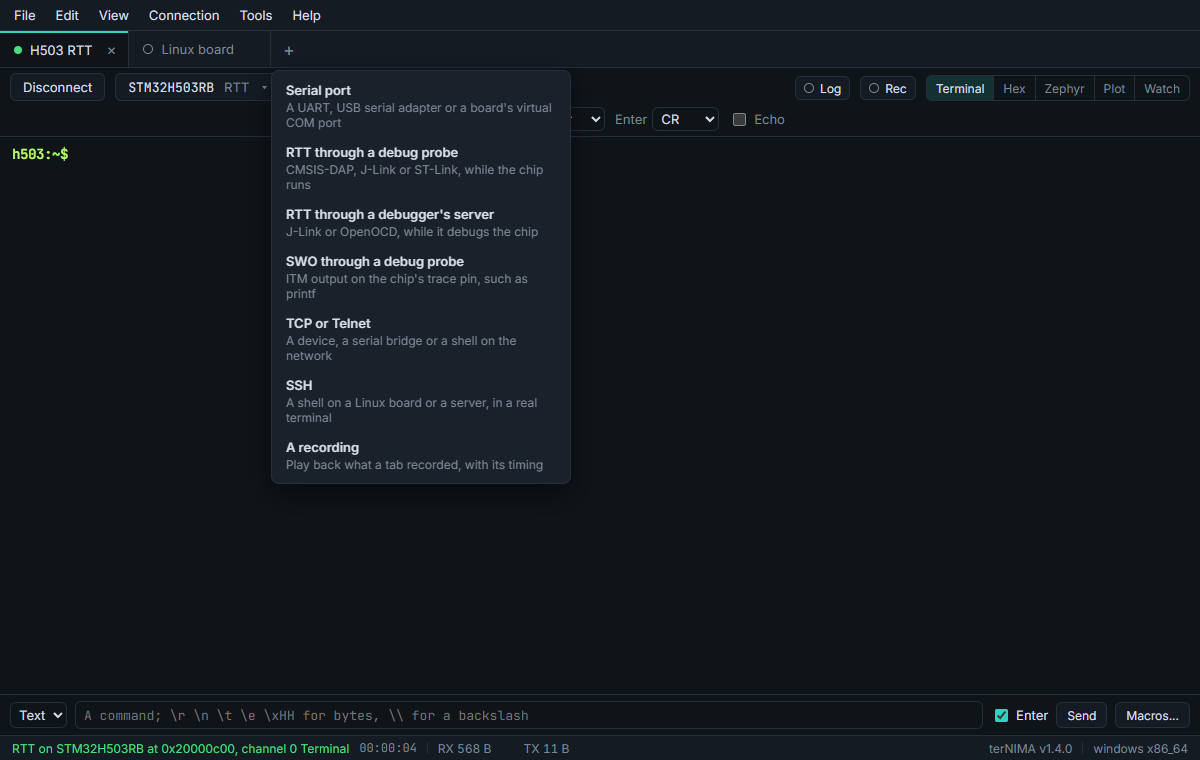
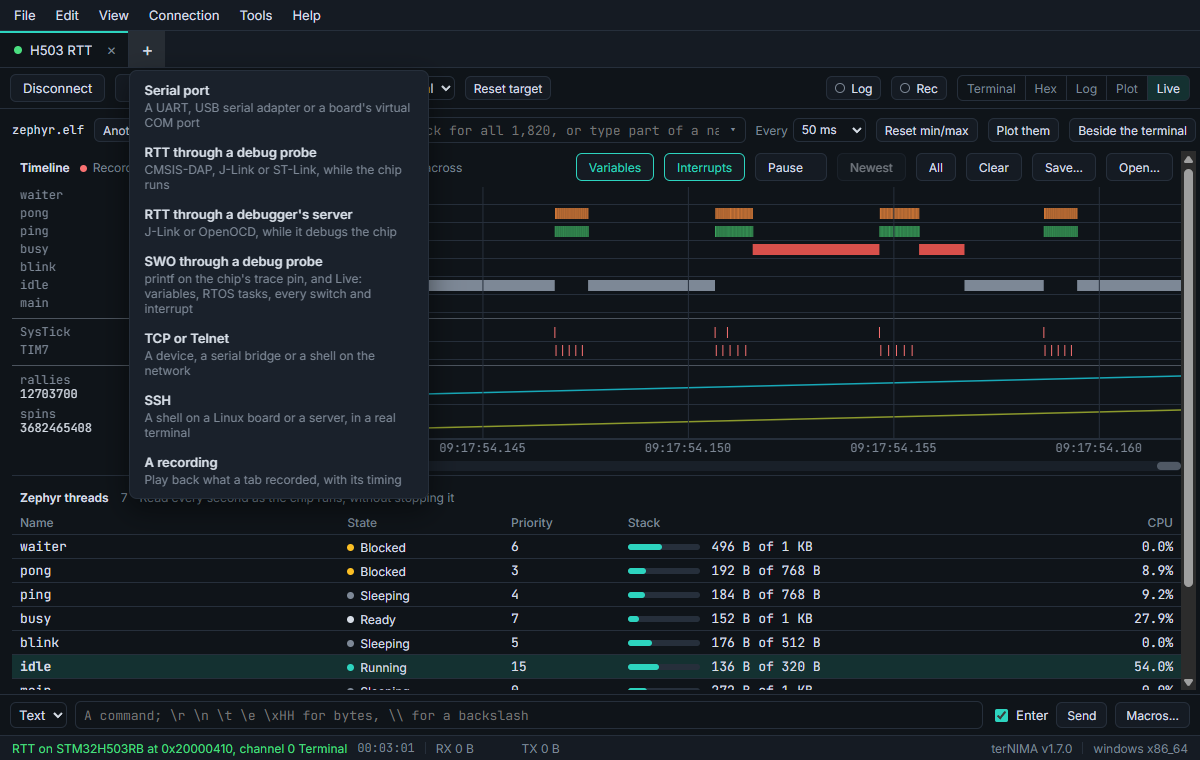
terNIMA 1.7.0: RTOS tasks and the timeline of every switch
The help has a section on the Live view's RTOS tasks and its timeline:
sampled, traced over SWO, or sent by SEGGER SystemView over RTT, with
Zephyr's settings for it, and how to zoom, pause and save it. Detect finds
an SWO tab's clock, and the views are called Live and Log, as in the app.
New pictures of the tasks and the timeline, of switches microseconds
apart, of the + menu, the SWO dialog and the palette. terNIMA's page opens
its pictures on the timeline and lists it, and its card names it.

diff --git a/ternima/help/index.html b/ternima/help/index.html
@@ -3,14 +3,14 @@
 <head>
 <meta charset="utf-8">
 <meta name="viewport" content="width=device-width, initial-scale=1">
-<title>terNIMA help | Serial, RTT, SWO, SSH, crash decoding, Watch, Plot and Modbus, step by step</title>
-<meta name="description" content="How to use terNIMA: serial, RTT through a probe or a debugger&#x27;s server, SWO, TCP, SSH, the terminal, the hex view, Zephyr logs, crash decoding, live variables, the plot, Modbus, logs and recordings, with screenshots.">
+<title>terNIMA help | Serial, RTT, SWO, SSH, crash decoding, Live, RTOS tasks, Plot and Modbus, step by step</title>
+<meta name="description" content="How to use terNIMA: serial, RTT through a probe or a debugger&#x27;s server, SWO, TCP, SSH, the terminal, the hex view, Zephyr logs, crash decoding, live variables, RTOS tasks and the timeline of every task switch, the plot, Modbus, logs and recordings, with screenshots.">
 <meta name="author" content="Nima Askari">
 <link rel="canonical" href="https://nimaltd.github.io/ternima/help/">
 <meta property="og:type" content="website">
 <meta property="og:url" content="https://nimaltd.github.io/ternima/help/">
-<meta property="og:title" content="terNIMA help | Serial, RTT, SWO, Watch, Plot and Modbus, step by step">
-<meta property="og:description" content="How to use terNIMA: serial, RTT through a probe or a debugger&#x27;s server, SWO, TCP, SSH, the terminal, the hex view, Zephyr logs, crash decoding, live variables, the plot, Modbus, logs and recordings, with screenshots.">
+<meta property="og:title" content="terNIMA help | Serial, RTT, SWO, Live, RTOS tasks, Plot and Modbus, step by step">
+<meta property="og:description" content="How to use terNIMA: serial, RTT through a probe or a debugger&#x27;s server, SWO, TCP, SSH, the terminal, the hex view, Zephyr logs, crash decoding, live variables, RTOS tasks and the timeline of every task switch, the plot, Modbus, logs and recordings, with screenshots.">
 <meta property="og:image" content="https://nimaltd.github.io/assets/ternima-logs.png">
 <meta name="twitter:card" content="summary_large_image">
 <meta name="theme-color" content="#071226">
@@ -95,9 +95,10 @@
         <li><a href="#ssh">SSH</a></li>
         <li><a href="#terminal">The terminal</a></li>
         <li><a href="#hex">Hex view</a></li>
-        <li><a href="#zephyr">Zephyr log</a></li>
+        <li><a href="#zephyr">Log view</a></li>
         <li><a href="#crash">Crash decoding</a></li>
-        <li><a href="#watch">Watch: live variables</a></li>
+        <li><a href="#watch">Live: variables</a></li>
+        <li><a href="#rtos">RTOS tasks and the timeline</a></li>
         <li><a href="#plot">Plot</a></li>
         <li><a href="#modbus">Modbus</a></li>
         <li><a href="#log">Log, record and replay</a></li>
@@ -124,7 +125,7 @@
 <li><b>Serial port</b>: a UART, a USB serial adapter, or a board's virtual COM port.</li>
 <li><b>RTT through a debug probe</b>: terNIMA opens a CMSIS-DAP, J-Link or ST-Link probe itself.</li>
 <li><b>RTT through a debugger's server</b>: while your IDE debugs, from J-Link's or OpenOCD's own RTT server.</li>
-<li><b>SWO through a debug probe</b>: ITM output on the chip's trace pin, such as printf.</li>
+<li><b>SWO through a debug probe</b>: printf on the chip's trace pin, and the Live view: variables, RTOS tasks, every task switch and interrupt.</li>
 <li><b>TCP or Telnet</b>: a device on the network, a serial bridge, or a shell.</li>
 <li><b>SSH</b>: a shell on a Linux board or a server, in a real terminal.</li>
 <li><b>A recording</b>: plays back what a tab recorded, with its timing.</li>
@@ -149,10 +150,10 @@
 <ol>
 <li><b>Pick the probe.</b> One already open in another tab says so.</li>
 <li><b>The chip</b>, as probe-rs names it: type part of its name and pick it from the list, or press <b>Detect</b>.</li>
-<li><b>The firmware's ELF file</b>, if you have it: terNIMA finds the control block at once from its <code>_SEGGER_RTT</code> symbol, and the Watch view finds the variables in it. Without it, RAM is searched.</li>
+<li><b>The firmware's ELF file</b>, if you have it: terNIMA finds the control block at once from its <code>_SEGGER_RTT</code> symbol, and the Live view finds the variables and the RTOS's tasks in it. Without it, RAM is searched.</li>
 <li><b>Connect.</b></li>
 </ol>
-<p>The <b>up channel</b> is the one shown, the <b>down channel</b> the one typed into; channel 0 is the terminal. <b>Control block address</b> skips the search. <b>Connect under reset</b> is for firmware that sleeps or turns the debug pins off. With <b>Read RTT</b> off, the tab reads only the variables in the Watch view, for firmware without RTT. <b>Reset target</b> in the toolbar resets the chip, and RTT is found again.</p>
+<p>The <b>up channel</b> is the one shown, the <b>down channel</b> the one typed into; channel 0 is the terminal. <b>Control block address</b> skips the search. <b>Connect under reset</b> is for firmware that sleeps or turns the debug pins off. With <b>Read RTT</b> off, the tab reads only the variables and the tasks in the Live view, for firmware without RTT. <b>Reset target</b> in the toolbar resets the chip, and RTT is found again. With SEGGER SystemView in the firmware, the Live view's timeline has every task switch and interrupt: see <a href="#rtos">RTOS tasks and the timeline</a>.</p>
 <figure><img src="/assets/help/ternima-terminal.png" width="1200" height="760" loading="lazy" decoding="async" alt="An RTT tab on an STM32H503RB: the firmware&#x27;s shell, with help, uptime and colors typed into it, the colors shown, and its variables beside the terminal"><figcaption>The firmware's shell over RTT, its variables beside it</figcaption></figure>
 
 <div class="note"><p>A probe has one owner: while your IDE debugs through it, terNIMA cannot open it. Read RTT through the debugger's own server then, as below.</p></div>
@@ -171,16 +172,16 @@
 <span class="p">&gt;</span> rtt server start 9090 0</pre></div>
 
 <p>Then pick <b>OpenOCD's RTT server</b>, <code>localhost</code> and 9090.</p>
-<figure><img src="/assets/help/ternima-server-dialog.png" width="1200" height="760" loading="lazy" decoding="async" alt="The New TCP session dialog set for OpenOCD&#x27;s RTT server: localhost, port 9090, the Tcl port 6666 for Watch, and a line on the OpenOCD commands that start the server"><figcaption>OpenOCD's RTT server, and its Tcl port for Watch</figcaption></figure>
+<figure><img src="/assets/help/ternima-server-dialog.png" width="1200" height="760" loading="lazy" decoding="async" alt="The New TCP session dialog set for OpenOCD&#x27;s RTT server: localhost, port 9090, the Tcl port 6666 for Watch, and a line on the OpenOCD commands that start the server"><figcaption>OpenOCD's RTT server, and its Tcl port for the Live view</figcaption></figure>
 
-<p>With OpenOCD, the Watch view reads the variables through OpenOCD's <b>Tcl port</b>, 6666 unless OpenOCD is told otherwise. The chip runs on, and the debugger keeps working. J-Link's server gives no way to read them.</p>
+<p>With OpenOCD, the Live view reads the variables through OpenOCD's <b>Tcl port</b>, 6666 unless OpenOCD is told otherwise. The chip runs on, and the debugger keeps working. J-Link's server gives no way to read them.</p>
       </section>
       <section id="swo">
         <h2>SWO through a debug probe</h2>
 
-<figure><img src="/assets/help/ternima-swo-dialog.png" width="1200" height="760" loading="lazy" decoding="async" alt="The New SWO session dialog: the probe, the chip, the core clock in Hz, the SWO baud rate, the ITM stimulus port with 0 for printf, and the All ports box"><figcaption>SWO: the core clock, the baud rate, the ITM port</figcaption></figure>
+<figure><img src="/assets/help/ternima-swo-dialog.png" width="1200" height="760" loading="lazy" decoding="async" alt="The New SWO session dialog: the STLink V3 probe picked, the chip STM32H503RB, the firmware&#x27;s ELF file, the core clock 240000000 and the SWO baud rate 24000000 found by Detect, the ITM stimulus port 0 for printf, and the line saying the clock is the firmware&#x27;s SystemCoreClock, checked on the core"><figcaption>Detect finds the core clock, and the fastest baud rate for it</figcaption></figure>
 
-<p>SWO is the chip's trace pin: what the firmware writes to the ITM, such as printf. Give the chip's <b>core clock</b> in Hz and the <b>SWO baud rate</b>, which must divide it exactly, and the ITM <b>stimulus port</b> shown (0 is printf), or <b>All ports</b>. The trace pin, often PB3 on STM32, must be wired to the probe; on STM32H5 terNIMA turns it on itself. SWO tabs have the Watch view too, read through the same probe.</p>
+<p>SWO is the chip's trace pin: what the firmware writes to the ITM, such as printf. Give the chip's <b>core clock</b> in Hz and the <b>SWO baud rate</b>, which must divide it exactly, and the ITM <b>stimulus port</b> shown (0 is printf), or <b>All ports</b>. <b>Detect</b> beside the clock finds both: it reads the firmware's own <code>SystemCoreClock</code> when the ELF file is given, checked against the core's cycle counter, or else counts the cycles alone, and takes the fastest baud rate the probe takes that divides the clock, 24 MHz on an ST-Link V3. The trace pin, often PB3 on STM32, must be wired to the probe; on STM32H5 terNIMA turns it on itself. SWO tabs have the Live view too, read through the same probe, and their timeline has every task switch and interrupt, timed by the chip: see <a href="#rtos">RTOS tasks and the timeline</a>.</p>
       </section>
       <section id="tcp">
         <h2>TCP or Telnet</h2>
@@ -234,11 +235,11 @@
 <p>View &gt; Hex (<kbd>Ctrl+Shift+H</kbd>) shows every byte sent (TX) and received (RX), with offsets and the bytes as characters. A line holds 8, 16 or 32 bytes, and a new one starts when the direction changes or after a chosen byte such as <code>0A</code>. The terminal keeps everything while the hex view is shown.</p>
       </section>
       <section id="zephyr">
-        <h2>Zephyr log</h2>
+        <h2>Log view</h2>
 
-<figure><img src="/assets/ternima-logs.png" width="1200" height="760" loading="lazy" decoding="async" alt="The Zephyr log view: log lines with their time, level and module, the warnings and errors highlighted, and a count of each level above them"><figcaption>Zephyr logs, by level and module</figcaption></figure>
+<figure><img src="/assets/ternima-logs.png" width="1200" height="760" loading="lazy" decoding="async" alt="The Log view: Zephyr&#x27;s log lines with their time, level and module, the warnings and errors highlighted, and a count of each level above them"><figcaption>Zephyr logs, by level and module</figcaption></figure>
 
-<p>View &gt; Zephyr log (<kbd>Ctrl+Shift+J</kbd>) lists every received line, with Zephyr's log lines read into time, level and module. The level chips and the module list show or hide lines, the search marks matches or keeps only them, Tools &gt; Highlight rules colors the lines that match, and bookmarks (<kbd>Ctrl+F2</kbd>, then <kbd>F2</kbd> and <kbd>Shift+F2</kbd>) mark lines to come back to.</p>
+<p>View &gt; Log (<kbd>Ctrl+Shift+J</kbd>) lists every received line, with Zephyr's log lines read into time, level and module. The level chips and the module list show or hide lines, the search marks matches or keeps only them, Tools &gt; Highlight rules colors the lines that match, and bookmarks (<kbd>Ctrl+F2</kbd>, then <kbd>F2</kbd> and <kbd>Shift+F2</kbd>) mark lines to come back to.</p>
 <p>A row over the list names the columns: Time, Level, Module and Message. Drag the edge between two names to make the column on its left wider or narrower, so a long module name shows in full; a double-click on the edge makes the column just wide enough for its longest text. Each tab keeps its widths. A module's name has the color of its line's level. <b>Clear</b> and <b>Scroll lock</b> are in the toolbar, as for the terminal: Clear (<kbd>Ctrl+Shift+K</kbd>) forgets the lines, which the plot reads too, and Scroll lock keeps the list still while lines keep coming.</p>
       </section>
       <section id="crash">
@@ -249,38 +250,82 @@
 
 <p>It reads any line with an address written as <code>0x08001234</code>, as in a Zephyr fatal error, a HardFault handler's print or an ESP32 backtrace. On a line that speaks of the PC, the LR, a fault or a backtrace, <code>08001234</code> without the <code>0x</code> counts too. Only addresses inside the ELF file's functions count, so RAM addresses and other numbers stay as they are. A return address, as in the LR, gives the line of the call.</p>
 <ul>
-<li><b>Where the ELF file goes:</b> in the settings of a serial, RTT or SWO tab; for a TCP tab, in its Watch view. It needs no probe, and works on a plain serial port.</li>
+<li><b>Where the ELF file goes:</b> in the settings of a serial, RTT or SWO tab; for a TCP tab, in its Live view. It needs no probe, and works on a plain serial port.</li>
 <li><b>Debug information:</b> a firmware built with it, as with <code>-g</code>, gives the file and the line. Without it you get the function, from the symbol table. A stripped file has neither, and the tab says so.</li>
 <li><b>The right file:</b> it must be the firmware that runs, or the addresses point somewhere else. A file built again is read again by itself.</li>
-<li><b>The Zephyr view</b> shows them at the end of the line. The hex view and log files keep only what the device sent.</li>
+<li><b>The Log view</b> shows them at the end of the line. The hex view and log files keep only what the device sent.</li>
 <li><b>Settings &gt; Crashes</b> turns it off.</li>
 </ul>
-<figure><img src="/assets/help/ternima-crash-lines.png" width="1200" height="760" loading="lazy" decoding="async" alt="The Zephyr view of the same crash: the function, file and line at the end of the lines with the LR and the PC"><figcaption>The same crash in the Zephyr view</figcaption></figure>
+<figure><img src="/assets/help/ternima-crash-lines.png" width="1200" height="760" loading="lazy" decoding="async" alt="The Log view of the same crash: the function, file and line at the end of the lines with the LR and the PC"><figcaption>The same crash in the Log view</figcaption></figure>
       </section>
       <section id="watch">
-        <h2>Watch: live variables</h2>
+        <h2>Live: variables</h2>
 
-<p>Watch reads the firmware's variables as the chip runs, without stopping it: globals and statics, a struct's members as <code>sensor.temp</code>, an array's elements as <code>buf[2]</code>, found by name in the ELF file's debug information. Build the firmware with debug information (<code>-g</code>).</p>
+<p>The Live view reads the firmware's variables as the chip runs, without stopping it: globals and statics, a struct's members as <code>sensor.temp</code>, an array's elements as <code>buf[2]</code>, found by name in the ELF file's debug information. Build the firmware with debug information (<code>-g</code>).</p>
 <ol>
-<li><b>Choose the ELF file</b> in the Watch view, or in the tab's settings.</li>
+<li><b>Choose the ELF file</b> in the Live view, or in the tab's settings.</li>
 <li><b>Click the box</b> for all the variables in the file, or type part of a name. <kbd>↑</kbd>, <kbd>↓</kbd> and <kbd>Enter</kbd> add one.</li>
 <li><b>Every</b> sets how often they are read, 10 ms to 1 s.</li>
 </ol>
-<figure><img src="/assets/help/ternima-watch-list.png" width="1200" height="760" loading="lazy" decoding="async" alt="The Watch view with its box clicked: the list of the ELF file&#x27;s variables, each with its type and address, over the table of the variables watched"><figcaption>A click on the box lists the ELF file's variables</figcaption></figure>
+<figure><img src="/assets/help/ternima-watch-list.png" width="1200" height="760" loading="lazy" decoding="async" alt="The Live view with its box clicked: the list of the ELF file&#x27;s variables, each with its type and address, over the table of the variables watched"><figcaption>A click on the box lists the ELF file's variables</figcaption></figure>
 
-<figure><img src="/assets/help/ternima-watch.png" width="1200" height="760" loading="lazy" decoding="async" alt="The Watch view: four variables of an STM32H503RB, a temperature, a sine, a sample count and the uptime, each with its type, address, value, min and max"><figcaption>Each variable's value, min and max, as the chip runs</figcaption></figure>
+<figure><img src="/assets/help/ternima-watch.png" width="1200" height="760" loading="lazy" decoding="async" alt="The Live view: four variables of an STM32H503RB, a temperature, a sine, a sample count and the uptime, each with its type, address, value, min and max"><figcaption>Each variable's value, min and max, as the chip runs</figcaption></figure>
 
-<p>The table has each variable's value, min and max; <b>Reset min/max</b> starts them again. <b>Plot them</b> draws them over time, and <b>Beside the terminal</b> shows them at the right of the terminal, the hex view and the Zephyr log, so what the firmware prints and its variables are in view together:</p>
+<p>The table has each variable's value, min and max; <b>Reset min/max</b> starts them again. <b>Plot them</b> draws them over time, and <b>Beside the terminal</b> shows them at the right of the terminal, the hex view and the Log view, so what the firmware prints and its variables are in view together:</p>
 <figure><img src="/assets/ternima-watch.png" width="1200" height="760" loading="lazy" decoding="async" alt="The firmware&#x27;s RTT shell at the left, and its variables at the right of it, read live"><figcaption>Watch beside the terminal</figcaption></figure>
 
-<p>Watch works on <b>RTT tabs</b>, with Read RTT off for firmware without RTT; on <b>SWO tabs</b>; and on <b>RTT through OpenOCD's server</b> while you debug. Statics of one name in two source files are named as GDB names them, <code>'uart.c'::state</code>. After the firmware is built anew, <b>Reload</b> reads the ELF file again.</p>
+<p>The Live view works on <b>RTT tabs</b>, with Read RTT off for firmware without RTT; on <b>SWO tabs</b>; and on <b>RTT through OpenOCD's server</b> while you debug. Statics of one name in two source files are named as GDB names them, <code>'uart.c'::state</code>. After the firmware is built anew, <b>Reload</b> reads the ELF file again.</p>
+<p>Over the variables, the Live view shows the RTOS's tasks and the timeline of which ran when: see <a href="#rtos">RTOS tasks and the timeline</a>.</p>
+      </section>
+      <section id="rtos">
+        <h2>RTOS tasks and the timeline</h2>
+
+<p>With the firmware's ELF file, the Live view shows its RTOS's tasks over the variables: Zephyr's threads or FreeRTOS's tasks, each with what it is doing, its priority, the most of its stack it has used and its share of the CPU, the running one picked out. FreeRTOS's heap shows too. They are read every second through the kernel's own lists as the chip runs, laid out as the ELF file's debug information says, so the firmware needs no RTT and nothing added. What it leaves out that would show more is named under the table, as <code>CONFIG_THREAD_NAME=y</code>.</p>
+<figure><img src="/assets/ternima-rtos.png" width="1200" height="760" loading="lazy" decoding="async" alt="The Live view of an RTT tab on an STM32H503RB running Zephyr with SystemView: the timeline, 24.6 ms across, with a lane for each thread, waiter, pong, ping, busy, blink, idle and main, the SysTick and TIM7 interrupts under them and the variables rallies and spins over the same time; under it, the Zephyr threads with each one&#x27;s state, priority, stack and share of the CPU"><figcaption>Zephyr's threads, and every switch over them</figcaption></figure>
+
+<p>The <b>timeline</b> over them has a lane for each task, showing when it ran, a lane for each interrupt, named as the firmware names it, TIM7 rather than IRQ 50, and the watched variables over the same time. It records from when the Live view is first shown, in every view after that. Which task ran, it learns one of three ways:</p>
+<ul>
+<li><b>Sampled</b>, in any tab with a probe: the running task is read as fast as the probe answers, about 2,700 times a second with an ST-Link V3. A task that runs for less than that may go unseen.</li>
+<li><b>Traced over SWO</b>, in an SWO tab: the chip sends each task switch and each interrupt itself, timed to the clock cycle, and nothing in the firmware changes. It needs a Cortex-M3, M4, M7 or M33 with its trace pin wired to the probe.</li>
+<li><b>From SEGGER SystemView</b>, in an RTT tab: firmware built with SystemView sends each task switch and each interrupt over RTT, timed by its own clock, with no trace pin. For Zephyr, in <code>prj.conf</code>:</li>
+</ul>
+<div class="cmd"><button class="copy" type="button" data-copy="CONFIG_TRACING=y&#10;CONFIG_SEGGER_SYSTEMVIEW=y&#10;CONFIG_SEGGER_SYSVIEW_RTT_CHANNEL=1&#10;CONFIG_SEGGER_SYSVIEW_RTT_BUFFER_SIZE=16384&#10;CONFIG_TRACING_SYSCALL=n&#10;CONFIG_TRACING_WORK=n&#10;CONFIG_TRACING_SEMAPHORE=n&#10;CONFIG_TRACING_MUTEX=n&#10;CONFIG_TRACING_CONDVAR=n&#10;CONFIG_TRACING_QUEUE=n&#10;CONFIG_TRACING_FIFO=n&#10;CONFIG_TRACING_LIFO=n&#10;CONFIG_TRACING_STACK=n&#10;CONFIG_TRACING_MESSAGE_QUEUE=n&#10;CONFIG_TRACING_MAILBOX=n&#10;CONFIG_TRACING_PIPE=n&#10;CONFIG_TRACING_HEAP=n&#10;CONFIG_TRACING_MEMORY_SLAB=n&#10;CONFIG_TRACING_TIMER=n&#10;CONFIG_TRACING_EVENT=n&#10;CONFIG_TRACING_POLLING=n&#10;CONFIG_TRACING_PM=n" aria-label="Copy the settings"><svg class="ico"><use href="/assets/icons.svg?v=3#i-copy"/></svg></button>
+<pre>CONFIG_TRACING=y
+CONFIG_SEGGER_SYSTEMVIEW=y
+CONFIG_SEGGER_SYSVIEW_RTT_CHANNEL=1
+CONFIG_SEGGER_SYSVIEW_RTT_BUFFER_SIZE=16384
+CONFIG_TRACING_SYSCALL=n
+CONFIG_TRACING_WORK=n
+CONFIG_TRACING_SEMAPHORE=n
+CONFIG_TRACING_MUTEX=n
+CONFIG_TRACING_CONDVAR=n
+CONFIG_TRACING_QUEUE=n
+CONFIG_TRACING_FIFO=n
+CONFIG_TRACING_LIFO=n
+CONFIG_TRACING_STACK=n
+CONFIG_TRACING_MESSAGE_QUEUE=n
+CONFIG_TRACING_MAILBOX=n
+CONFIG_TRACING_PIPE=n
+CONFIG_TRACING_HEAP=n
+CONFIG_TRACING_MEMORY_SLAB=n
+CONFIG_TRACING_TIMER=n
+CONFIG_TRACING_EVENT=n
+CONFIG_TRACING_POLLING=n
+CONFIG_TRACING_PM=n</pre></div>
+
+<p>The lines with <code>=n</code> leave out the kernel's objects, so SystemView sends only the threads and the interrupts, and RTT has room for every switch. Switches microseconds apart can still take more than half of what the probe reads: set the tab's <b>SWD speed</b> to its fastest, 24 MHz on an ST-Link V3, and give SystemView 16 KB of buffer where the RAM allows, as above, since the probe stalls for a few milliseconds now and then.</p>
+<h3>Looking at it</h3>
+<p>The wheel zooms, down to a microsecond across; <kbd>Shift</kbd> with the wheel, a drag and the scrollbar under the timeline move along the time. <b>Newest</b> follows the newest again, and <b>All</b> shows all of it. Pointing at a run tells which task or interrupt it was and how long it lasted, to the nanosecond when the switches are traced. <b>Variables</b> and <b>Interrupts</b> show their lanes or leave them out; over SWO, without the interrupts the trace pin has more room for the switches. Where what ran is not known, as where some of the trace was lost, the lanes are tinted and say Lost.</p>
+<figure><img src="/assets/help/ternima-timeline.png" width="1200" height="760" loading="lazy" decoding="async" alt="The timeline zoomed to 202 µs across, the chip paused: ping and pong taking turns every few microseconds, a TIM7 interrupt between them, and the pointer on a run of pong, which lasted 9.625 µs"><figcaption>202 µs across: every switch, and how long each run lasted</figcaption></figure>
+
+<p><b>Pause</b> halts the chip, in a tab with a probe of its own, and holds the whole Live view still, the tasks and the variables too. <b>Resume</b> runs it again, and the timeline shows where it was halted, with nothing missed; closing the tab runs it again too. Through a debugger's server, whose debugger has the chip, Pause holds the view still while the recording goes on. <b>Save</b> keeps the timeline in a file, and <b>Open</b> brings one back to look at later.</p>
       </section>
       <section id="plot">
         <h2>Plot</h2>
 
 <figure><img src="/assets/ternima-plot.png" width="1200" height="760" loading="lazy" decoding="async" alt="The Plot view: temperature, humidity, a sine and RSSI drawn over the last 10 seconds, with each one&#x27;s last, min, max, mean and deviation"><figcaption>Numbers from the lines, over time</figcaption></figure>
 
-<p>View &gt; Plot (<kbd>Ctrl+Shift+G</kbd>) draws numbers over time. <b>Read</b> picks where they come from: <b>Numbers</b> reads named values such as <code>temp=21.5</code>, the Arduino Serial Plotter's <code>temp:21.5,hum:40</code>, plain numbers and JSON lines; <b>Regex</b> takes the numbers your pattern captures; <b>Modbus</b> the values a serial tab's Modbus view reads; <b>Variables</b> the ones Watch reads.</p>
+<p>View &gt; Plot (<kbd>Ctrl+Shift+G</kbd>) draws numbers over time. <b>Read</b> picks where they come from: <b>Numbers</b> reads named values such as <code>temp=21.5</code>, the Arduino Serial Plotter's <code>temp:21.5,hum:40</code>, plain numbers and JSON lines; <b>Regex</b> takes the numbers your pattern captures; <b>Modbus</b> the values a serial tab's Modbus view reads; <b>Variables</b> the ones the Live view reads.</p>
 <p>Four charts: <b>Time</b>, <b>XY</b>, <b>Histogram</b> and <b>FFT</b>. Drag or the wheel zooms, <kbd>Shift</kbd>+wheel moves, <kbd>Space</kbd> pauses, and a double-click follows the newest values again. Clicks place the cursors A and B: the time between them, as a period and a frequency, and each series' value at both; the table under the chart has each one's min, max and mean between them. The <b>Series</b> list shows or hides each series, with All and None, as the check boxes in the table do. <b>R</b> by a series puts it on a right axis of its own, for values far from the others. The <b>trigger</b> shows the time around a series crossing a level, rising, falling or either way, as a scope does, and <b>Single</b> holds the first crossing until <b>Arm</b>. <b>CSV...</b> and <b>PNG...</b> save the data and the chart.</p>
 <figure><img src="/assets/ternima-axis.png" width="1200" height="760" loading="lazy" decoding="async" alt="Humidity and temperature on the left axis and a sine on a right axis of its own, over the same 10 seconds"><figcaption>A series far from the others, on a right axis</figcaption></figure>
 
@@ -311,7 +356,7 @@
 <figure><img src="/assets/help/ternima-settings.png" width="1200" height="760" loading="lazy" decoding="async" alt="The Settings dialog: theme and text size, the mouse in the terminal, crash decoding, what terNIMA brings back at startup, logging with its folder and format, and the update check"><figcaption>File > Settings</figcaption></figure>
 
 <p>File &gt; Settings (<kbd>Ctrl+,</kbd>) has the theme, the menu text size for the menus, tabs, buttons and dialogs (13 pixels at first; View &gt; Bigger, Smaller and Normal menu text size change it too), the terminals' text size, what the mouse does in the terminal, crash decoding, what terNIMA brings back when it starts, the log folder and format, and the update check.</p>
-<figure><img src="/assets/help/ternima-palette.png" width="1200" height="760" loading="lazy" decoding="async" alt="The command palette with watch typed: the Watch view and Watch beside the terminal"><figcaption>The command palette finds any command</figcaption></figure>
+<figure><img src="/assets/help/ternima-palette.png" width="1200" height="760" loading="lazy" decoding="async" alt="The command palette with live typed: the Live view, ticked as the view shown"><figcaption>The command palette finds any command</figcaption></figure>
 
 <p>View &gt; Command palette (<kbd>Ctrl+Shift+P</kbd>) finds any command by part of its name. The keys:</p>
 <table>
@@ -322,7 +367,7 @@
 <tr><td>Copy, paste, select all</td><td><kbd>Ctrl+Shift+C</kbd> <kbd>Ctrl+Shift+V</kbd> <kbd>Ctrl+Shift+A</kbd></td></tr>
 <tr><td>Find, next, previous</td><td><kbd>Ctrl+Shift+F</kbd> <kbd>F3</kbd> <kbd>Shift+F3</kbd></td></tr>
 <tr><td>Clear the screen</td><td><kbd>Ctrl+Shift+K</kbd></td></tr>
-<tr><td>Hex, Zephyr log, Plot, Modbus</td><td><kbd>Ctrl+Shift+H</kbd> <kbd>Ctrl+Shift+J</kbd> <kbd>Ctrl+Shift+G</kbd> <kbd>Ctrl+Shift+M</kbd></td></tr>
+<tr><td>Hex, Log, Plot, Modbus</td><td><kbd>Ctrl+Shift+H</kbd> <kbd>Ctrl+Shift+J</kbd> <kbd>Ctrl+Shift+G</kbd> <kbd>Ctrl+Shift+M</kbd></td></tr>
 <tr><td>Split right, down; the other pane</td><td><kbd>Ctrl+Shift+E</kbd> <kbd>Ctrl+Shift+D</kbd> <kbd>F6</kbd></td></tr>
 <tr><td>Bookmark a line; next, previous</td><td><kbd>Ctrl+F2</kbd> <kbd>F2</kbd> <kbd>Shift+F2</kbd></td></tr>
 <tr><td>Log the tab; save the output</td><td><kbd>Ctrl+Shift+L</kbd> <kbd>Ctrl+Shift+S</kbd></td></tr>
@@ -337,9 +382,10 @@
 
 <ul>
 <li><b>The probe does not open.</b> Another program has it: a debugger in an IDE, STM32CubeProgrammer, or another tab. Close it, or read RTT through the debugger's server. If nothing has it, unplug it and plug it in again. The message in the status bar says why.</li>
-<li><b>No RTT control block.</b> Is RTT on in the firmware, and has it started? Give the ELF file, or the control block's address. For firmware without RTT, turn <b>Read RTT</b> off and use Watch.</li>
+<li><b>No RTT control block.</b> Is RTT on in the firmware, and has it started? Give the ELF file, or the control block's address. For firmware without RTT, turn <b>Read RTT</b> off and use the Live view.</li>
 <li><b>A serial port is in use.</b> Another program has it open: close it, and terNIMA connects by itself.</li>
 <li><b>A variable is "not in the ELF".</b> The firmware was built anew: press <b>Reload</b>. Build it with debug information.</li>
+<li><b>The timeline says Lost.</b> Over SWO, the chip had more to send than the trace pin carries: leave the interrupts out. Over RTT, SystemView's buffer in the firmware filled: set the SWD speed higher, and give SystemView a bigger buffer.</li>
 <li><b>A crash shows no function or line.</b> Is the ELF file in the tab the firmware that runs, and was it built with debug information? Is Settings &gt; Crashes on?</li>
 <li><b>SSH says a server's key changed.</b> After flashing a board this is expected: the message has the command that takes the old key out. Otherwise, find out why first.</li>
 <li><b>Anything else</b>: <a href="https://github.com/nimaltd/ternima/issues/new">ask, or report a bug on GitHub</a>.</li>

diff --git a/ternima/index.html b/ternima/index.html
@@ -4,13 +4,13 @@
 <meta charset="utf-8">
 <meta name="viewport" content="width=device-width, initial-scale=1">
 <title>terNIMA | A serial, RTT, SWO and TCP terminal for embedded developers</title>
-<meta name="description" content="terNIMA: serial, RTT, SWO, TCP and SSH in one window on Windows, macOS and Linux, with Zephyr logs, crash decoding and live variables from the ELF, a plotter, a Modbus tester, and record and replay. Free and open source.">
+<meta name="description" content="terNIMA: serial, RTT, SWO, TCP and SSH in one window on Windows, macOS and Linux, with Zephyr logs, crash decoding, live variables and RTOS tasks from the ELF, a timeline of every task switch, a plotter, a Modbus tester, and record and replay. Free and open source.">
 <meta name="author" content="Nima Askari">
 <link rel="canonical" href="https://nimaltd.github.io/ternima/">
 <meta property="og:type" content="website">
 <meta property="og:url" content="https://nimaltd.github.io/ternima/">
 <meta property="og:title" content="terNIMA | A serial, RTT, SWO and TCP terminal for embedded developers">
-<meta property="og:description" content="terNIMA: serial, RTT, SWO, TCP and SSH in one window on Windows, macOS and Linux, with Zephyr logs, crash decoding and live variables from the ELF, a plotter, a Modbus tester, and record and replay. Free and open source.">
+<meta property="og:description" content="terNIMA: serial, RTT, SWO, TCP and SSH in one window on Windows, macOS and Linux, with Zephyr logs, crash decoding, live variables and RTOS tasks from the ELF, a timeline of every task switch, a plotter, a Modbus tester, and record and replay. Free and open source.">
 <meta property="og:image" content="https://nimaltd.github.io/assets/ternima-logs.png">
 <meta name="twitter:card" content="summary_large_image">
 <meta name="theme-color" content="#071226">
@@ -74,7 +74,7 @@
     <div class="hero-text">
       <a class="news" href="https://github.com/nimaltd/ternima/blob/main/CHANGELOG.md"><b>Changelog</b><span>What changed in each release</span><svg class="ico"><use href="/assets/icons.svg?v=3#i-arrow"/></svg></a>
       <h1>terNIMA, <span>a terminal for embedded developers.</span></h1>
-      <p class="lead">One window for everything your board says: serial, TCP and SSH, plus RTT and SWO straight from your debug probe, with no vendor software. Watch your firmware's variables change as it runs, plot them, follow its Zephyr logs, and see the file and line of a crash. Free and open source, on Windows, macOS and Linux.</p>
+      <p class="lead">One window for everything your board says: serial, TCP and SSH, plus RTT and SWO straight from your debug probe, with no vendor software. Watch your firmware's variables and its RTOS's tasks as it runs, see every task switch on a timeline, plot them, follow its Zephyr logs, and see the file and line of a crash. Free and open source, on Windows, macOS and Linux.</p>
       <div class="ctas">
         <a class="btn amber" href="#download"><svg class="ico"><use href="/assets/icons.svg?v=3#i-download"/></svg>Download</a>
         <a class="btn ghost" href="/ternima/help/"><svg class="ico"><use href="/assets/icons.svg?v=3#i-book"/></svg>Help</a>
@@ -88,7 +88,8 @@
     <div class="tn">
       <figure class="shot" id="shots" aria-roledescription="carousel" aria-label="terNIMA, feature by feature">
         <div class="slides">
-          <img class="slide on" src="/assets/ternima-logs.png" width="1200" height="760" loading="lazy" data-caption="Zephyr logs, by level and module, with highlights" alt="terNIMA's Lines view: Zephyr log lines, each with its time, level and module, the warnings and errors highlighted, and a count of each level above them">
+          <img class="slide on" src="/assets/ternima-rtos.png" width="1200" height="760" loading="lazy" data-caption="RTOS tasks, and every task switch and interrupt on a timeline" alt="terNIMA&#x27;s Live view on an STM32H503RB running Zephyr: a timeline with a lane for each thread, the SysTick and TIM7 interrupts under them and two variables over the same time, 24.6 ms across, and under it the threads, each with its state, priority, stack and share of the CPU">
+          <img class="slide" src="/assets/ternima-logs.png" width="1200" height="760" loading="lazy" data-caption="Zephyr logs, by level and module, with highlights" alt="terNIMA's Lines view: Zephyr log lines, each with its time, level and module, the warnings and errors highlighted, and a count of each level above them">
           <img class="slide" src="/assets/ternima-crash.png" width="1200" height="760" loading="lazy" data-caption="A real HardFault, with the function, file and line under each address" alt="An RTT tab on an STM32H503RB after a HardFault: under the lines with the LR and the PC, the function, file and line of each address">
           <img class="slide" src="/assets/ternima-ssh.png" width="1200" height="760" loading="lazy" data-caption="SSH in a real terminal: htop on a Linux machine" alt="An SSH tab with htop running in it, with its colors, its bars and its F key menu">
           <img class="slide" src="/assets/ternima-rtt.png" width="1200" height="760" loading="lazy" data-caption="RTT through an ST-LINK, with no vendor software" alt="An RTT tab on an STM32H503RB through an ST-LINK: the firmware's shell, with help, colors and uptime typed into it">
@@ -102,7 +103,7 @@
           <img class="slide" src="/assets/ternima-replay.png" width="1200" height="760" loading="lazy" data-caption="A recording played back, with its timing" alt="A recording played back at its own speed, with Pause, Restart, the speed and the position, and its numbers drawn as they come">
         </div>
         <figcaption>
-          <span class="slide-caption">Zephyr logs, by level and module, with highlights</span>
+          <span class="slide-caption">RTOS tasks, and every task switch and interrupt on a timeline</span>
           <span class="slide-tools"></span>
         </figcaption>
       </figure>
@@ -160,6 +161,7 @@
       <li><svg class="ico"><use href="/assets/icons.svg?v=3#i-terminal"/></svg><div><b>Zephyr shell and logs</b><span>A full VT100 terminal with 24-bit color, and logs you filter by level and module, search and bookmark, in columns you can widen.</span></div></li>
       <li><svg class="ico"><use href="/assets/icons.svg?v=3#i-binary"/></svg><div><b>Crash decoding</b><span>Under a code address in the output, as in a Zephyr fatal error, a HardFault or an ESP32 backtrace, its function, file and line from the ELF, on plain serial too.</span></div></li>
       <li><svg class="ico"><use href="/assets/icons.svg?v=3#i-gauge"/></svg><div><b>Live variables</b><span>The firmware's globals, struct members and array elements by name from its ELF, read as the chip runs, beside the terminal or plotted.</span></div></li>
+      <li><svg class="ico"><use href="/assets/icons.svg?v=3#i-sliders"/></svg><div><b>RTOS tasks and a timeline</b><span>Zephyr's threads and FreeRTOS's tasks as the chip runs, and every task switch and interrupt on a timeline, traced over SWO or sent by SystemView over RTT, down to a microsecond.</span></div></li>
       <li><svg class="ico"><use href="/assets/icons.svg?v=3#i-activity"/></svg><div><b>A live plotter</b><span>Time, XY, histogram and FFT charts with a scope trigger, a right axis for values far apart and the series you pick, Arduino Serial Plotter format included.</span></div></li>
       <li><svg class="ico"><use href="/assets/icons.svg?v=3#i-network"/></svg><div><b>Modbus, and its traffic</b><span>RTU and ASCII as a master that polls and plots, or a slave that answers, and every frame on the bus, each response under its request.</span></div></li>
       <li><svg class="ico"><use href="/assets/icons.svg?v=3#i-history"/></svg><div><b>Record and replay</b><span>Save a session with its timing and play it back later, faster or slower, from any point.</span></div></li>

diff --git a/index.html b/index.html
@@ -105,7 +105,7 @@
       <a class="product" href="/ternima/">
         <span class="product-icon"><svg class="ico"><use href="/assets/icons.svg?v=3#i-terminal"/></svg></span>
         <h3>terNIMA</h3>
-        <p>A terminal for embedded developers: serial, RTT, SWO, TCP and SSH in one window, Zephyr logs, crash decoding, live variables, a plotter and a Modbus tester, on Windows, macOS and Linux.</p>
+        <p>A terminal for embedded developers: serial, RTT, SWO, TCP and SSH in one window, Zephyr logs, crash decoding, live variables, RTOS tasks on a timeline, a plotter and a Modbus tester, on Windows, macOS and Linux.</p>
         <span class="next-go">See terNIMA <svg class="ico"><use href="/assets/icons.svg?v=3#i-arrow"/></svg></span>
       </a>
       <a class="product" href="/libnima/">
